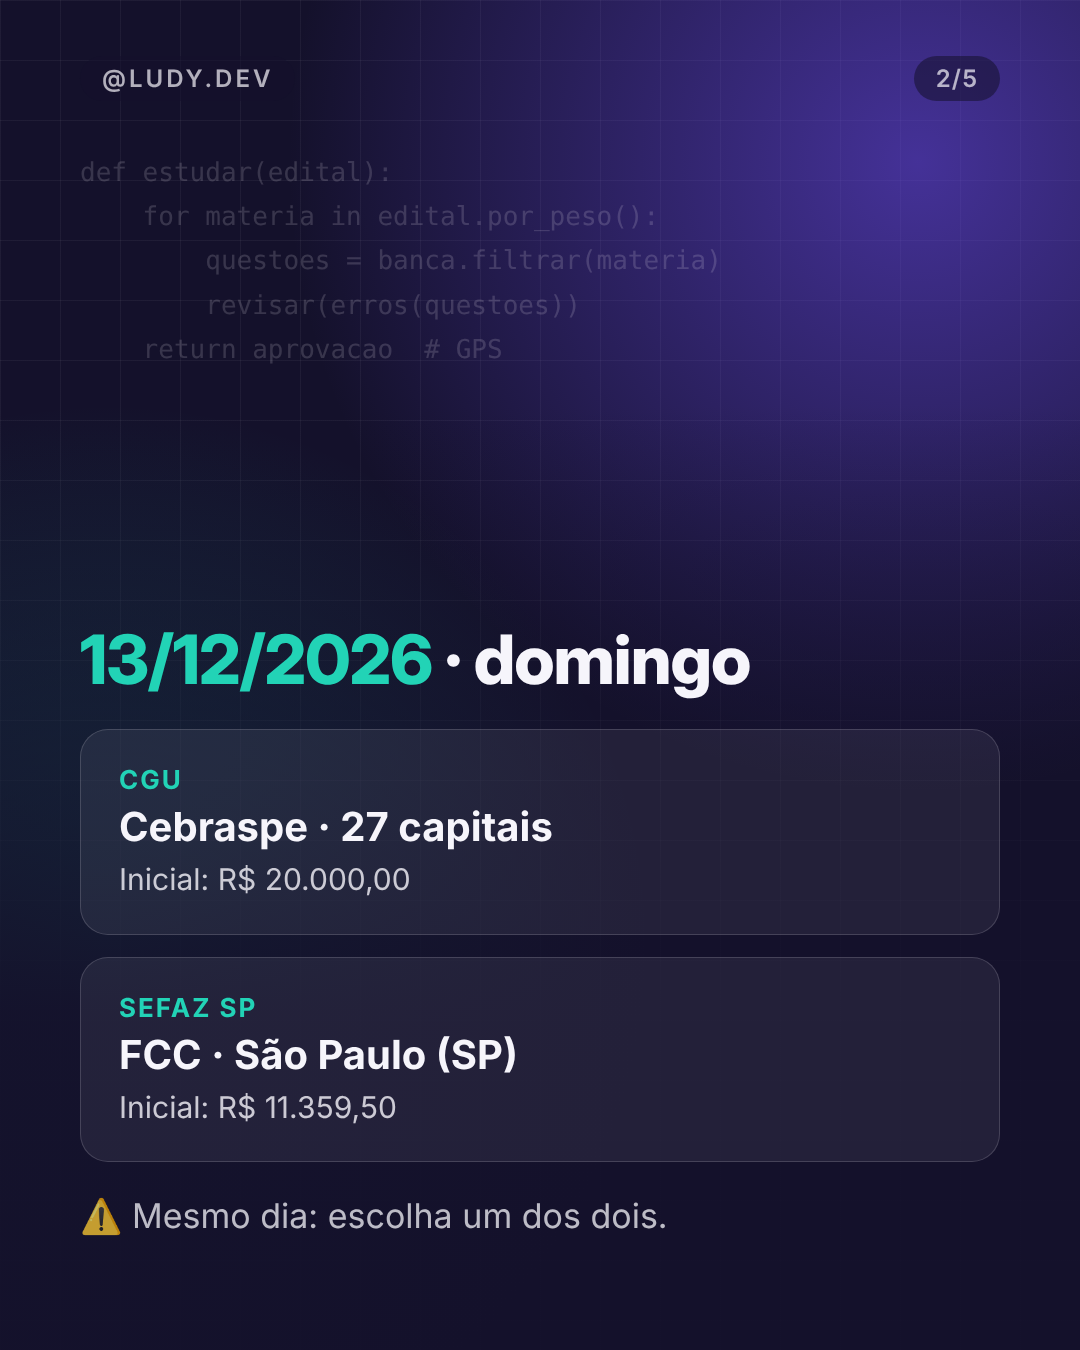
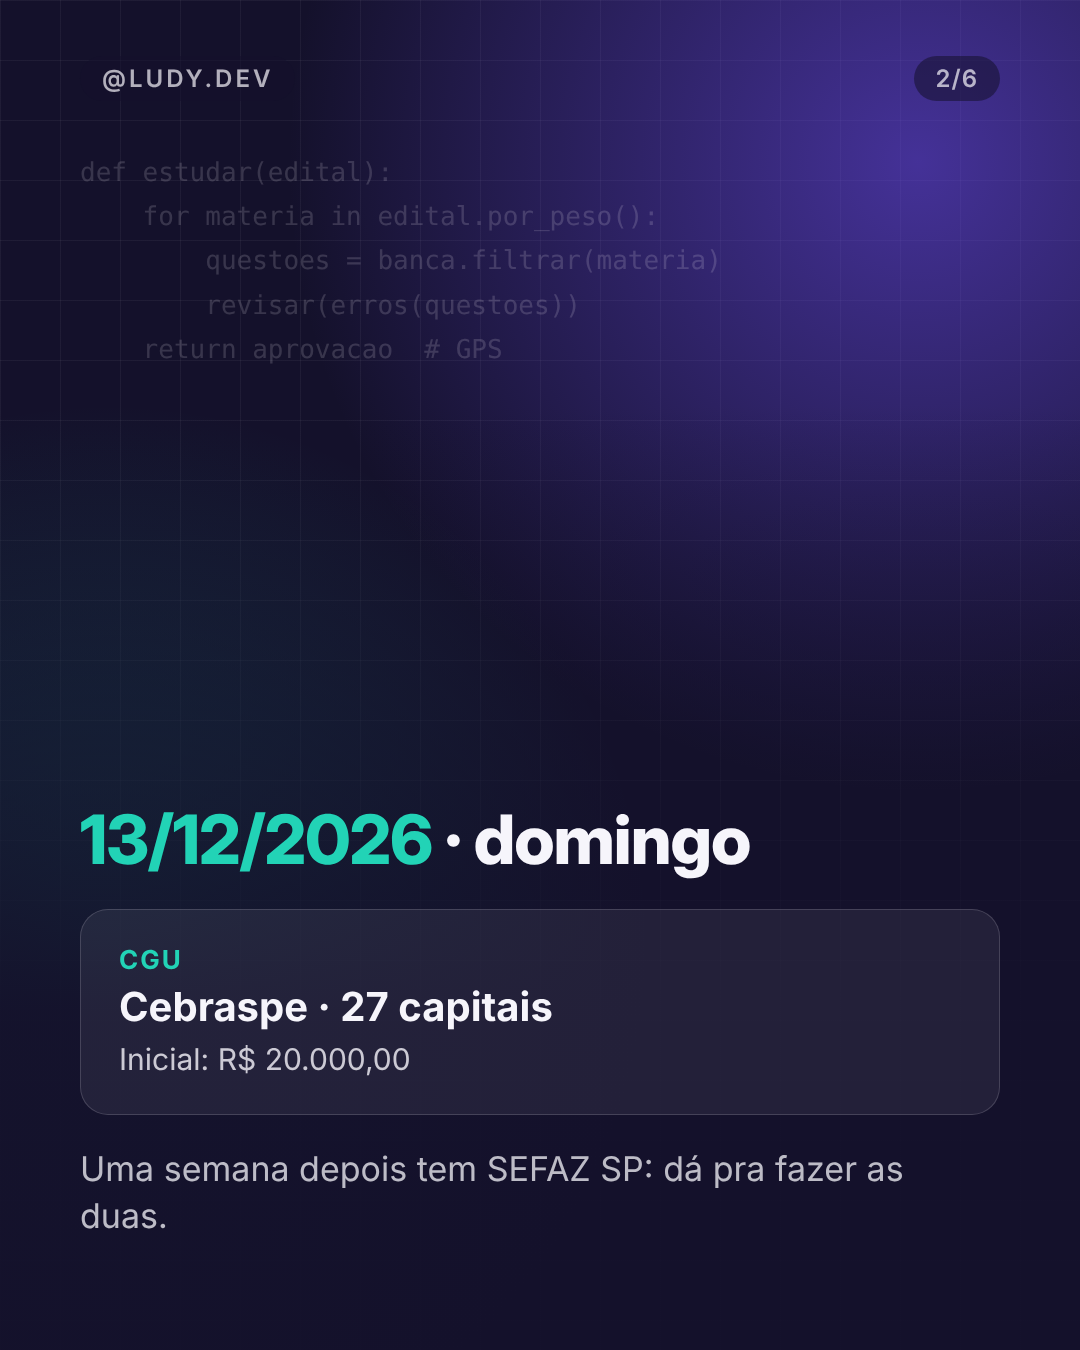
Calendário de provas: SEFAZ SP passou para 20/12
Claude-Session: https://claude.ai/code/session_01C3fj6BqqV3uEiiRfAeZn5F

Changed region(s): [[0.0611, 0.56, 0.825, 0.9333], [0.0611, 0.4667, 0.7028, 0.5289]]

diff --git a/_ferramentas/plano_10k.py b/_ferramentas/plano_10k.py
@@ -66,13 +66,14 @@ POSTS["23-18h"] = [page_a(badge() + '<h1>Qual concurso de <span class="c">TI</sp
     '<div class="sub">CGU, SEFAZ SP, TRT 8, TCE-GO, TJ-PB ou outro? Me conta nos comentários 👇</div>', photo="fotos/ludy-notebook.jpg")]
 
 # 6 — 24/10 18h · A: calendário de provas
-T = 5
+T = 6
 POSTS["24-18h"] = [
  page_a(badge() + '<h1>Calendário de provas de <span class="c">TI</span>: <span class="v">dez/26 e jan/27</span></h1><div class="sub">Salva pra montar seu planejamento →</div>', 1, T, photo="fotos/ampulheta-1.jpg"),
- page_a('<h2><span class="c">13/12/2026</span> · domingo</h2>' + card("CGU", "Cebraspe · 27 capitais", "Inicial: R$ 20.000,00") + card("SEFAZ SP", "FCC · São Paulo (SP)", "Inicial: R$ 11.359,50") + '<p class="sub">⚠ Mesmo dia: escolha um dos dois.</p>', 2, T),
- page_a('<h2><span class="c">17/01/2027</span> · domingo</h2>' + card("TRT 8", "FCC · Belém, Marabá, Santarém e Macapá", "Analista: R$ 18.801,39 · Técnico: R$ 12.537,22") + card("TCE-GO", "FCC · Goiânia (GO)", "Técnico (nível médio): R$ 11.862,19") + '<p class="sub">⚠ Mesmo dia também.</p>', 3, T),
- page_a('<h2><span class="c">24/01/2027</span> · domingo</h2>' + card("TJ-PB", "FGV · Paraíba", "Analista: R$ 11.526,14 inicial · R$ 19.212,35 final") + '<p class="sub">Dá pra encaixar depois da prova de 17/01.</p>', 4, T),
- page_a('<h2>Com <span class="v">8 semanas</span> até a primeira prova, cada semana conta.</h2><p>Salva e manda pra quem vai estudar com você.</p>' + seguir(), 5, T),
+ page_a('<h2><span class="c">13/12/2026</span> · domingo</h2>' + card("CGU", "Cebraspe · 27 capitais", "Inicial: R$ 20.000,00") + '<p class="sub">Uma semana depois tem SEFAZ SP: dá pra fazer as duas.</p>', 2, T),
+ page_a('<h2><span class="c">20/12/2026</span> · domingo</h2>' + card("SEFAZ SP", "FCC · São Paulo (SP)", "Inicial: R$ 11.359,50") + '<p class="sub">⚠ A data mudou: antes era 13/12.</p>', 3, T),
+ page_a('<h2><span class="c">17/01/2027</span> · domingo</h2>' + card("TRT 8", "FCC · Belém, Marabá, Santarém e Macapá", "Analista: R$ 18.801,39 · Técnico: R$ 12.537,22") + card("TCE-GO", "FCC · Goiânia (GO)", "Técnico (nível médio): R$ 11.862,19") + '<p class="sub">⚠ Mesmo dia: escolha um dos dois.</p>', 4, T),
+ page_a('<h2><span class="c">24/01/2027</span> · domingo</h2>' + card("TJ-PB", "FGV · Paraíba", "Analista: R$ 11.526,14 inicial · R$ 19.212,35 final") + '<p class="sub">Dá pra encaixar depois da prova de 17/01.</p>', 5, T),
+ page_a('<h2>Com <span class="v">7 semanas</span> até a primeira prova, cada semana conta.</h2><p>Salva e manda pra quem vai estudar com você.</p>' + seguir(), 6, T),
 ]
 
 # 7 — 25/10 18h · imagem única: história
